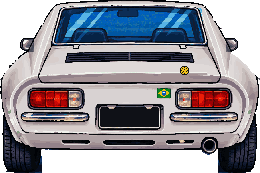
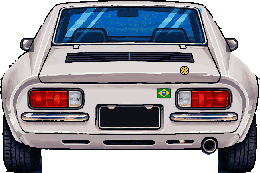
v0.77.4: revisão das lanternas traseiras: GTI sem miolo de lâmpada acesa nas lentes; GTE com a luz de ré clara apagada e o pisca na ponta de fora
Claude-Session: https://claude.ai/code/session_01MLD9VR7gkmY4w6a9beZcp6

Changed region(s): [[0.6769, 0.5202, 0.7385, 0.6069], [0.2462, 0.5202, 0.3077, 0.6069]]

diff --git a/src/cars.ts b/src/cars.ts
@@ -374,7 +374,7 @@ const LAMPS: Record<string, LampDef> = {
   'br-corsa': { head: [0.17, 0.639, 0.06], sigRear: [0.038, 0.555, 0.107, 0.592], sigFront: [0.075, 0.615, 0.11, 0.655] }, // Corsa GSi (corsa_sprites.py)
   'br-uno': { head: [0.19, 0.55, 0.06], sigRear: [0.065, 0.46, 0.18, 0.535], sigFront: [0.075, 0.51, 0.105, 0.6] },
   'br-kadett': { head: [0.2, 0.52, 0.06], sigRear: [0.07, 0.46, 0.15, 0.54], sigFront: [0.05, 0.46, 0.11, 0.58] },
-  'br-pumagte': { head: [0.131, 0.533, 0.055], sigRear: [0.264, 0.523, 0.317, 0.621], sigFront: [0.253, 0.639, 0.025] }, // Puma GTE 1974 (pumagte_sprites2.py)
+  'br-pumagte': { head: [0.131, 0.533, 0.055], sigRear: [0.115, 0.523, 0.175, 0.621], sigRed: true, sigFront: [0.253, 0.639, 0.025] }, // Puma GTE 1974 (pumagte_sprites2.py)
   'br-pumagtb': { head: [0.13, 0.586, 0.042], sigRear: [0.027, 0.451, 0.21, 0.596], sigRed: true, sigFront: [0.11, 0.785, 0.21, 0.825] }, // Puma GTB S2 (pumagtb_sprites.py)
   'br-golgti': { head: [0.18, 0.57, 0.06], sigRear: [0.03, 0.585, 0.09, 0.665], sigFront: [0.025, 0.515, 0.085, 0.62] }, // Gol GTI 1993 (golgti_sprites.py)
   'br-vectra': { head: [0.21, 0.56, 0.05], sigRear: [0.06, 0.44, 0.135, 0.49], sigFront: [0.075, 0.515, 0.13, 0.6] },

diff --git a/tools/ref/rear_lamps_unlit.py b/tools/ref/rear_lamps_unlit.py
@@ -1,0 +1,60 @@
+"""Lanternas apagadas na arte (revisão das traseiras): o jogo acende pisca, freio e lanterna por cima, então
+nada pode parecer aceso no sprite.
+- Gaúcho GTI (br-golgti-rear): as lentes âmbar e vermelha vinham com "miolo" de lâmpada acesa (amarelo e
+  branco, anel laranja no vermelho): voltam para a cor da lente.
+- Onça GTE (br-pumagte-rear): a lente clara de dentro é a luz de ré; tinha um ponto laranja de lâmpada e tom
+  bege quente: vira vidro claro neutro (o pisca passa para a ponta de fora, vermelho, em cars.ts).
+Rodar depois de golgti_sprites.py / pumagte_sprites2.py.  Uso: python3 tools/ref/rear_lamps_unlit.py
+"""
+import os
+
+import numpy as np
+from PIL import Image
+
+D = os.path.join(os.path.dirname(os.path.abspath(__file__)), '..', '..', 'src', 'assets', 'cars')
+
+
+def both(W, x0, x1):
+    return [(x0, x1), (W - x1, W - x0)]
+
+
+def gti():
+    p = os.path.join(D, 'br-golgti-rear.png')
+    a = np.array(Image.open(p).convert('RGBA'))
+    W = a.shape[1]
+    n = 0
+    for (lx0, lx1), base, gmax in [((3, 16), (240, 106, 2), 0x80), ((17, 34), (248, 12, 3), 0x28), ((46, 60), (248, 6, 3), 0x28)]:
+        for x0, x1 in both(W, lx0, lx1):
+            for y in range(116, 128):
+                for x in range(x0, x1):
+                    r, g, b, al = a[y, x]
+                    if al and r > 0xc0 and g > gmax:
+                        a[y, x, :3] = base
+                        n += 1
+    Image.fromarray(a).save(p, optimize=True)
+    print('gti', n)
+
+
+def gte():
+    p = os.path.join(D, 'br-pumagte-rear.png')
+    a = np.array(Image.open(p).convert('RGBA'))
+    W = a.shape[1]
+    n = 0
+    for x0, x1 in both(W, 69, 80):
+        for y in range(92, 104):
+            for x in range(x0, x1):
+                r, g, b, al = a[y, x].astype(int)
+                if not al or max(r, g, b) < 0x60:
+                    continue  # contorno escuro fica
+                l = (max(r, g, b) + min(r, g, b)) / 2 / 255
+                if r - b > 0x50:  # ponto laranja da lâmpada: tom do vidro em volta
+                    l = 0.62
+                v = int(min(235, 90 + l * 150))
+                a[y, x, :3] = (v - 6, v - 2, v + 6)
+                n += 1
+    Image.fromarray(a).save(p, optimize=True)
+    print('gte', n)
+
+
+gti()
+gte()

diff --git a/CLAUDE.md b/CLAUDE.md
@@ -191,6 +191,10 @@
 4. Depois de mexer em `src/*.ts`, se o teste der igual ao anterior, reiniciar o vite (cache).
 
 ## Lições (erros que já aconteceram — não repetir)
+- Lanternas traseiras dos sprites: nada aceso na arte (miolo amarelo/branco de lâmpada, lente de ré cor de
+  pêssego): o jogo acende pisca/freio por cima. Pisca (`sigRear`) na ponta de fora da lanterna; luz de ré
+  apagada (clara, ou fumê quando a lanterna real é fumê, como no Voyage Sport). Conferir todas com a folha de
+  traseiras (pisca e pontos de luz marcados) e corrigir como `tools/ref/rear_lamps_unlit.py`.
 - Recorte de cabine: tons azulados/cinzentos de peças (molduras, colunas, borracha) passam por vidro;
   marcar as peças à mão (polígono ou varredura por linha a partir do friso) em vez de confiar só na cor.
 - Janela da porta: só até a borda do retrovisor; base do retrovisor e coluna ficam sólidas.
